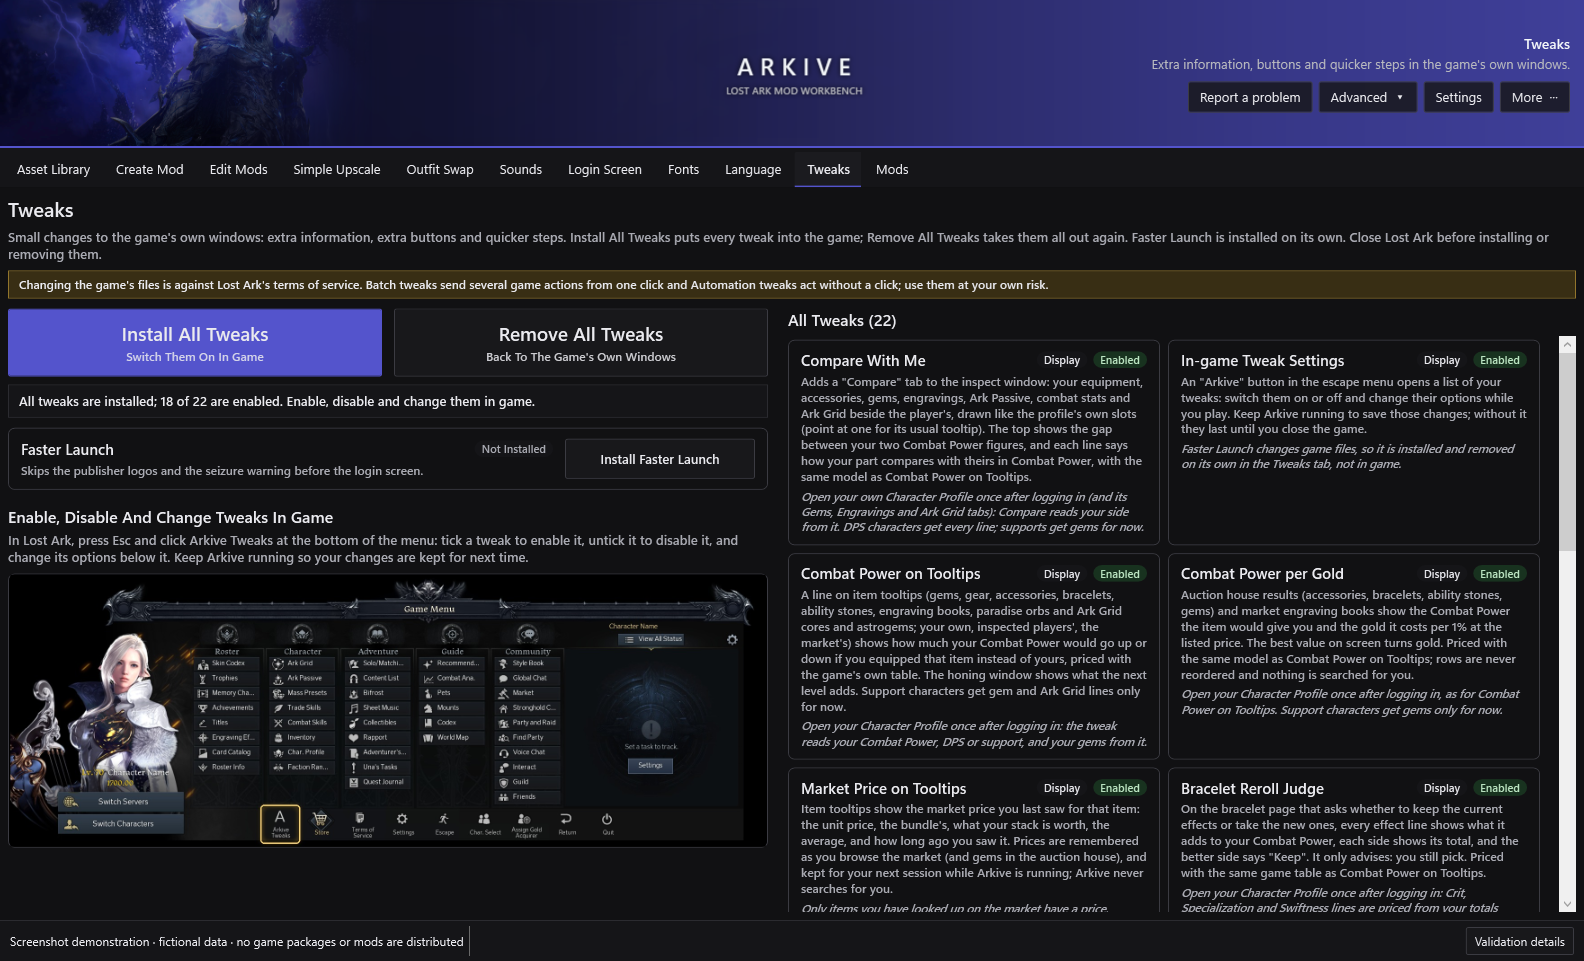
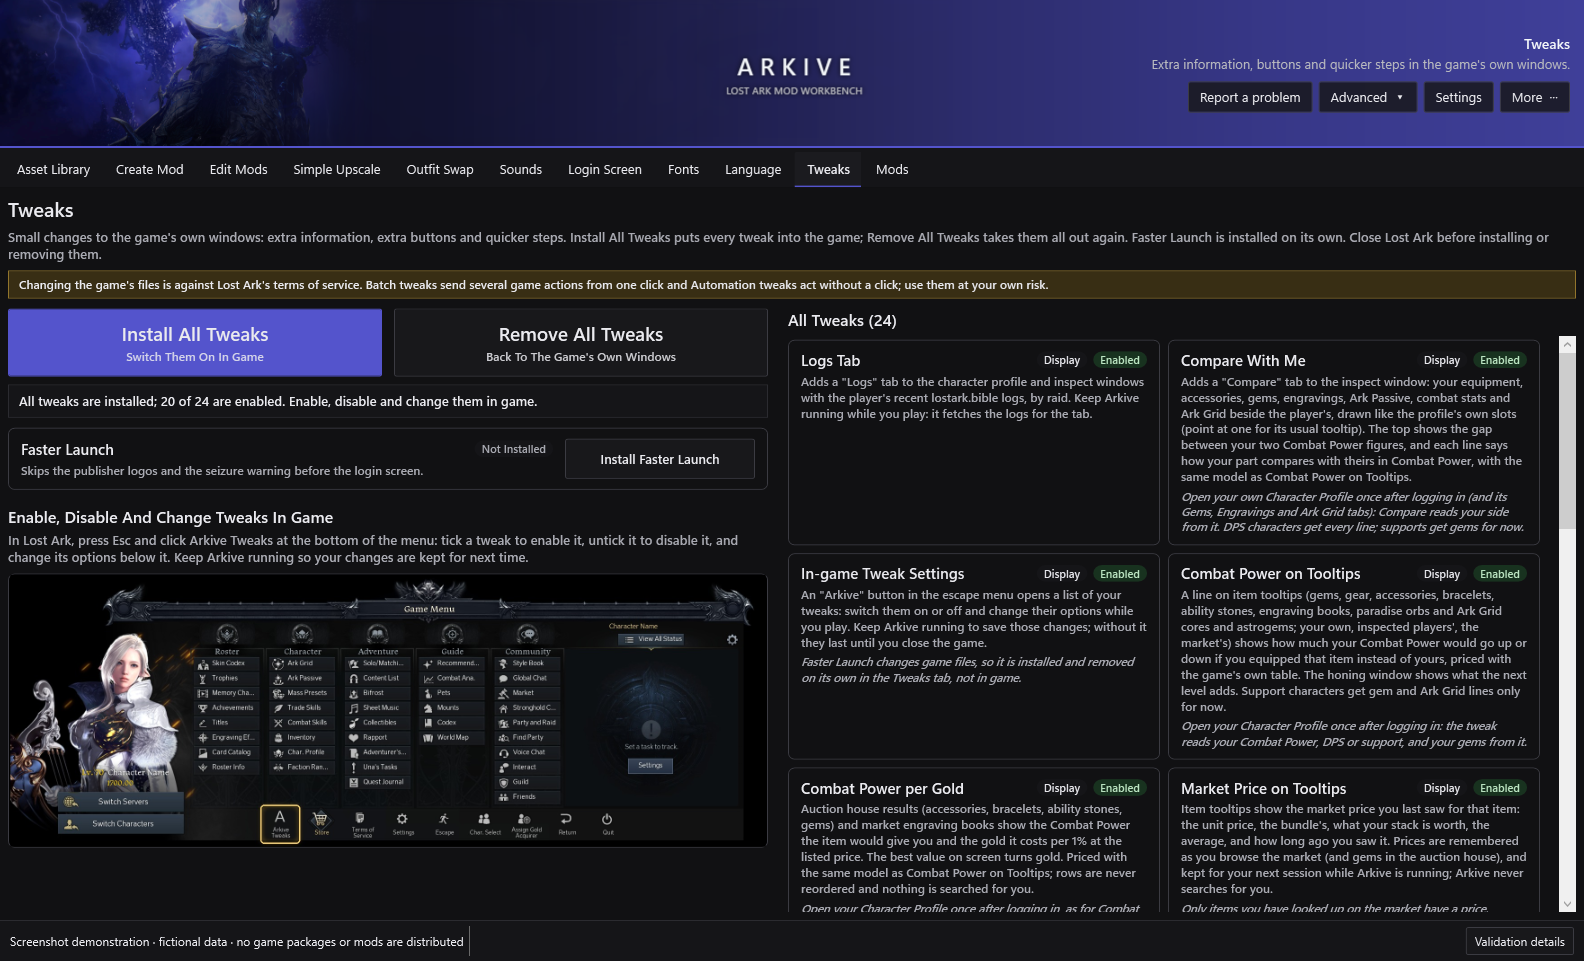
release: Arkive 0.7.1
README: Logs Tab and Bracelet Dismantle in the Tweaks list, Auto Pull Up with
the window closed, lostark.bible in Privacy, Tweaks tab picture with 24 tweaks.

diff --git a/README.md b/README.md
@@ -72,7 +72,7 @@ Player classes, bosses and other NPCs play their skills from the game's own skil
 
 ### Tweaks (WIP)
 
-Small changes to the game's own windows: extra information, extra buttons and quicker steps. Install them from Arkive's **Tweaks** tab, then switch each one on or off and change its options in game from the **Arkive Tweaks** menu. Logs tab NOT publically available at the moment.
+Small changes to the game's own windows: extra information, extra buttons and quicker steps. Install them from Arkive's **Tweaks** tab, then switch each one on or off and change its options in game from the **Arkive Tweaks** menu.
 
 ![Arkive Tweaks tab with Install All Tweaks, Faster Launch and the list of tweaks](docs/screenshots/tweaks.png)
 
@@ -232,9 +232,9 @@ Ctrl-click toggles rows, Shift-click selects a range and Ctrl+A selects every ro
 
 In game, press Esc and choose **Arkive Tweaks** at the bottom of the menu: tick a tweak to turn it on, untick it to turn it off, and change its options there. Keep Arkive running while you play so those choices are kept for next time.
 
-- **Information:** Combat Power on Tooltips (what an item would add to your Combat Power), Combat Power per Gold in the auction house and market, Market Price on Tooltips, Compare With Me (your gear beside an inspected player's), Bracelet Reroll Judge, Astrogem Processing Advisor, Lobby CP in the party finder, Slot Tweaks (item properties at a glance, including bracelet effects), Buff Icon Stacking, Additional Top Currencies and the Extended Escape Menu.
-- **Quicker steps:** Fast Advanced Honing, Fast Paradise, Auto-Dismiss Stone Faceting Results, Next Item Button, Chest Opening Tweaks, Market Tweaks, Exchange Max Button and Universal Storage Claim.
-- **Automation:** Auto Pull Up presses a hosted lobby's Pull up again while its box is ticked, and Ready Check Tweaks can accept the ready check (off by default).
+- **Information:** Logs Tab (a player's recent lostark.bible logs in the profile and inspect windows), Combat Power on Tooltips (what an item would add to your Combat Power), Combat Power per Gold in the auction house and market, Market Price on Tooltips, Compare With Me (your gear beside an inspected player's), Bracelet Reroll Judge, Astrogem Processing Advisor, Lobby CP in the party finder, Slot Tweaks (item properties at a glance, including bracelet effects), Buff Icon Stacking, Additional Top Currencies and the Extended Escape Menu.
+- **Quicker steps:** Fast Advanced Honing, Fast Paradise, Auto-Dismiss Stone Faceting Results, Next Item Button, Chest Opening Tweaks, Market Tweaks, Exchange Max Button, Universal Storage Claim and Bracelet Dismantle by Stat (puts bracelets with the stats you tick in the dismantle list; you press Dismantle).
+- **Automation:** Auto Pull Up presses a hosted lobby's Pull up again while its box is ticked, also with the Find Party window closed, and Ready Check Tweaks can accept the ready check (off by default).
 
 Tweaks are newer and less tested than other mods: some read English text and only work on an English client, and a game update can stop one working until Arkive is updated. See [Limitations and known issues](#limitations-and-known-issues).
 
@@ -519,7 +519,7 @@ Run release jobs on reviewed repository-owned tags, not untrusted PR code with w
 
 ## Privacy, security and licensing
 
-No telemetry or credential upload is implemented. Asset operations run locally. Optional update checks contact GitHub with normal request metadata such as IP/user-agent. Local settings/logs contain local paths and asset identities; sanitize them before sharing.
+No telemetry or credential upload is implemented. Asset operations run locally. Optional update checks contact GitHub with normal request metadata such as IP/user-agent. The Logs Tab tweak, when installed and switched on, asks lostark.bible for the logs of the characters you open in game. Local settings/logs contain local paths and asset identities; sanitize them before sharing.
 
 Publication starts from a clean snapshot instead of prior commits. Mods, database/asset exports, caches, backups, builds, personal settings and AI configs are excluded. Application banners/icon and the interoperability key are intentionally retained. `THIRD-PARTY-NOTICES.txt` contains dependency licenses and artwork credits.
 
